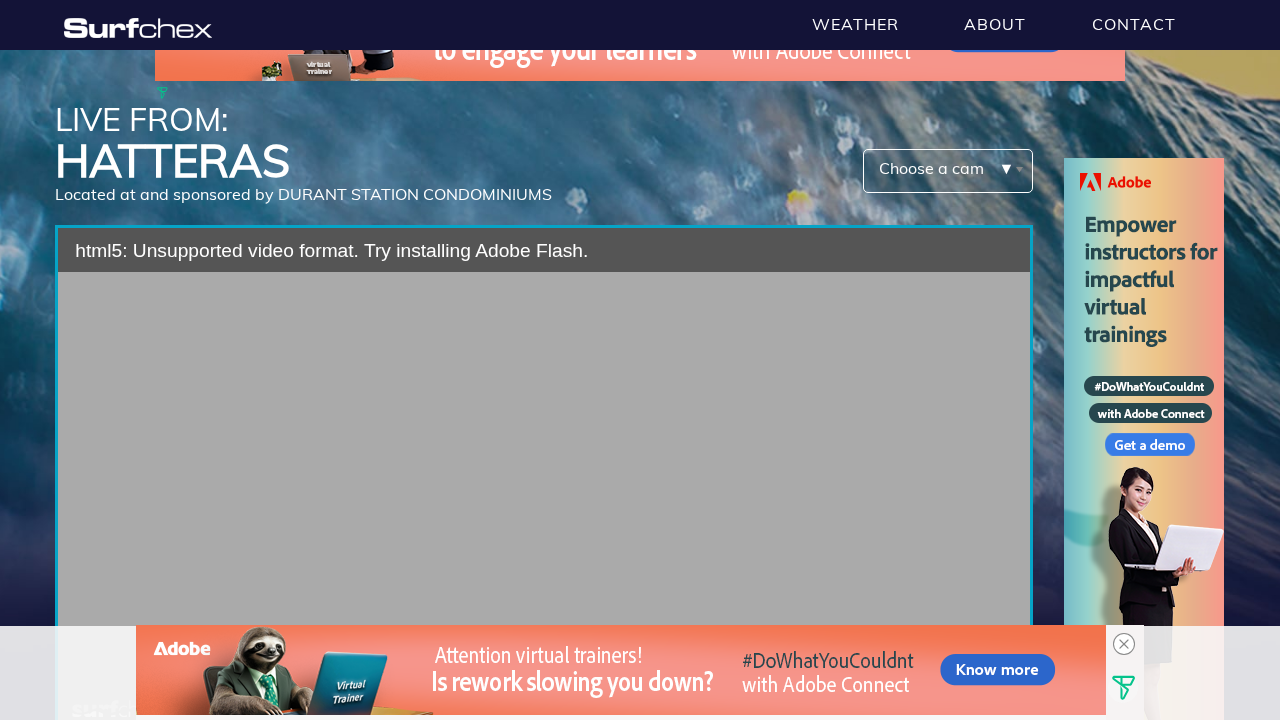
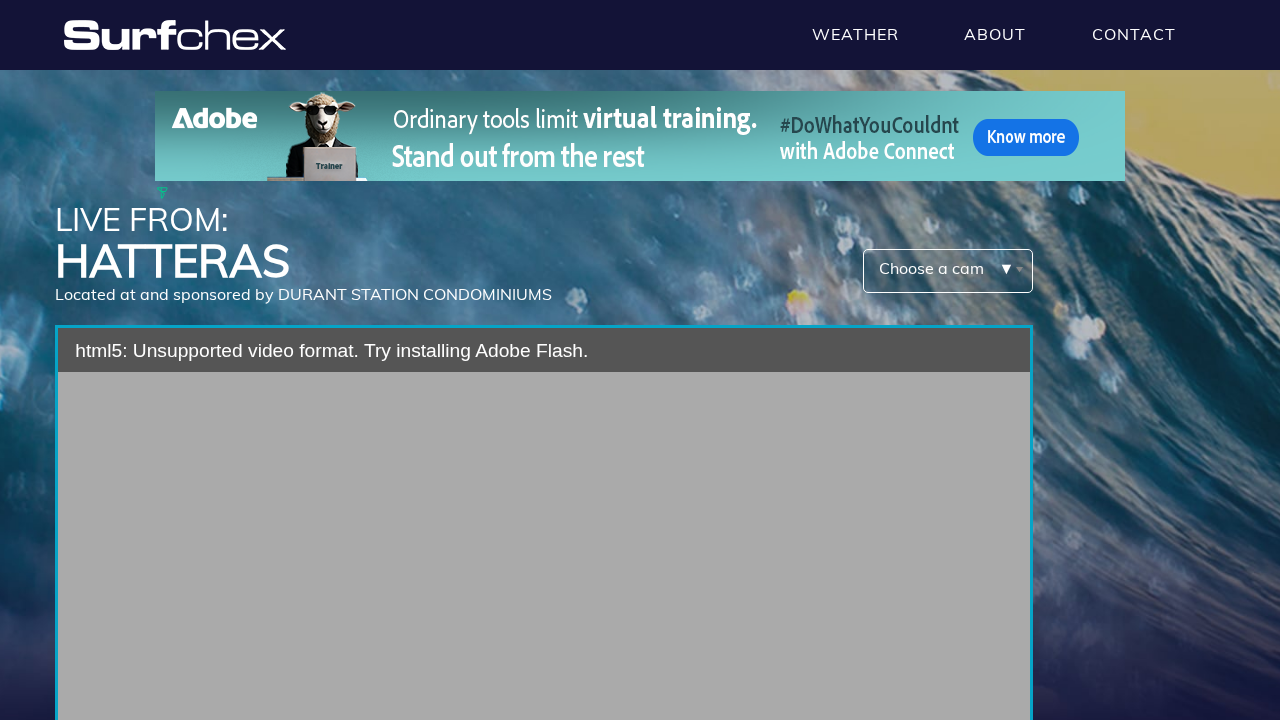
lwwa script,more testcase updates.

diff --git a/docs/wa/pw/hatteras.spec.js b/docs/wa/pw/hatteras.spec.js
@@ -6,14 +6,21 @@ const { chromium } = require('playwright');
 test('capture hatteras surf', async ({ page }) => {
  const browser = await chromium.launch({
     headless: true,
-    args: ['--kiosk']
+    args: [
+	'--kiosk',
+        '--autoplay-policy=no-user-gesture-required',
+        '--use-fake-ui-for-media-stream',
+        '--use-fake-device-for-media-stream',
+        '--disable-gpu',
+        '--mute-audio'
+    ]
   });
 
   await page.goto('https://www.surfchex.com/cams/hatteras-web-cam/');
   const title = await page.title();
-  await page.evaluate(() => {
-    window.scrollTo(0, 100); // Scroll down y pixels
-  });
+  //await page.evaluate(() => {
+  //  window.scrollTo(0, 100); // Scroll down y pixels
+  //});
   // await page.waitForTimeout(5000); // pauses for 3 second
   await page.screenshot({ path: '/tmp/wa/hatteras.png' });
 
